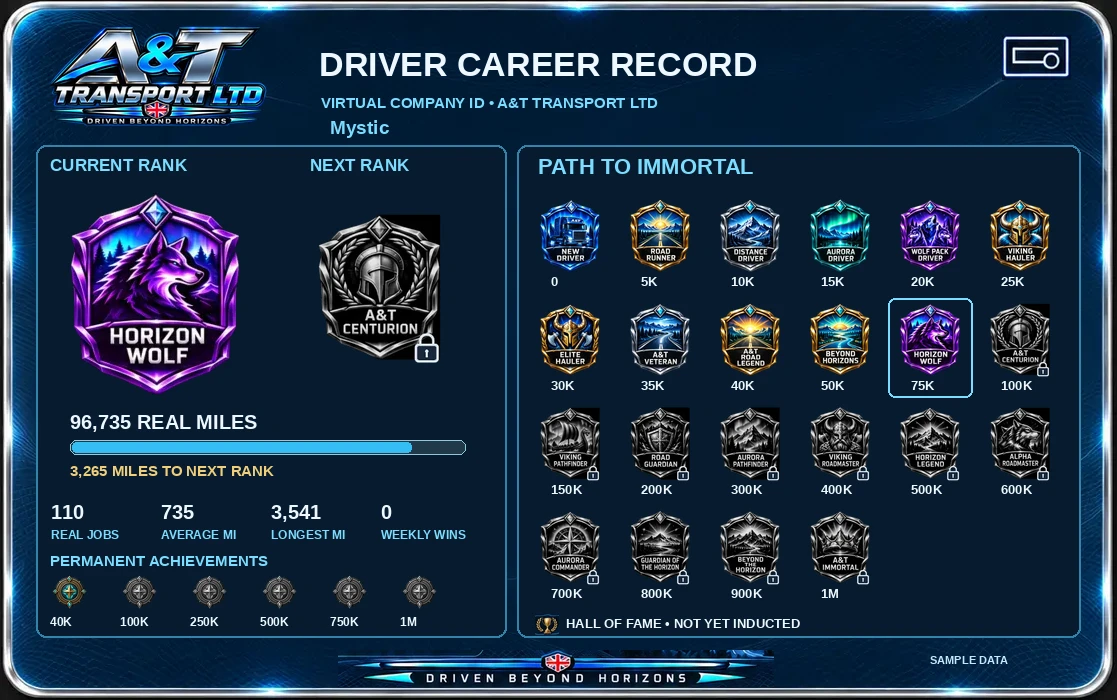
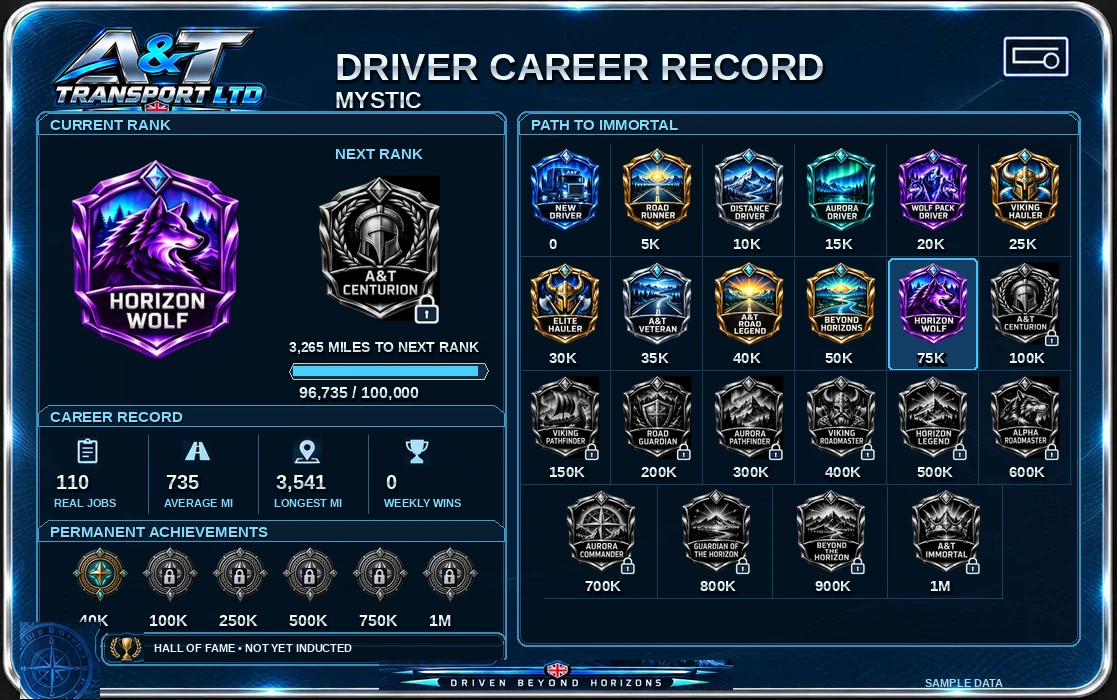
Restore detailed tachograph styling and card decorations

diff --git a/tachograph.py b/tachograph.py
@@ -7,7 +7,7 @@ from io import BytesIO
 from pathlib import Path
 from zipfile import ZipFile
 
-from PIL import Image, ImageDraw, ImageFont, ImageOps
+from PIL import Image, ImageDraw, ImageFont, ImageOps, ImageFilter
 
 ROOT = Path(__file__).resolve().parent
 ART = ROOT / "assets/tachograph"
@@ -92,10 +92,50 @@ def render(name, profile, prefs, side="front", role="DRIVER"):
             while value and draw.textlength(value+"…",font=font(size)) > width:
                 value = value[:-1]
             value += "…"
+        draw.text((x+1,y+2),value,font=font(size),fill="#000914")
         draw.text((x,y),value,font=font(size),fill=colour)
 
+    def metal(x,y,value,size=24,width=None):
+        value = " ".join(str(value).upper().split())
+        while width and size > 11 and draw.textlength(value,font=font(size)) > width:
+            size -= 1
+        if width and draw.textlength(value,font=font(size)) > width:
+            while value and draw.textlength(value+"…",font=font(size)) > width:
+                value=value[:-1]
+            value+="…"
+        mask=Image.new("L",canvas.size)
+        md=ImageDraw.Draw(mask)
+        md.text((x,y),value,font=font(size),fill=255)
+        draw.text((x+1,y+2),value,font=font(size),fill="#000813",stroke_width=2,stroke_fill="#000813")
+        bounds=mask.getbbox()
+        if bounds:
+            gradient=Image.new("RGBA",canvas.size)
+            gd=ImageDraw.Draw(gradient)
+            for line in range(bounds[1],bounds[3]):
+                t=(line-bounds[1])/max(1,bounds[3]-bounds[1]-1)
+                # Brushed silver with a narrow dark reflection and cyan rim.
+                shade=int(253-65*t) if t<0.48 else int(160+85*(t-0.48)/0.52)
+                gd.line((bounds[0],line,bounds[2],line),fill=(shade,min(255,shade+12),min(255,shade+22),255))
+            gradient.putalpha(mask)
+            canvas.alpha_composite(gradient)
+
     def panel(box):
-        draw.rounded_rectangle(box,10,fill="#061b2e",outline="#3483aa",width=2)
+        overlay=Image.new("RGBA",canvas.size)
+        od=ImageDraw.Draw(overlay)
+        od.rounded_rectangle(box,10,fill=(3,15,29,205),outline=(59,155,204,230),width=2)
+        x1,y1,x2,y2=box
+        od.rounded_rectangle((x1+3,y1+3,x2-3,y2-3),8,outline=(104,195,223,65),width=1)
+        canvas.alpha_composite(overlay)
+
+    def heading(x,y,width,label):
+        draw.polygon(((x,y+21),(x,y+8),(x+10,y),(x+width-10,y),(x+width,y+8),(x+width,y+21)),
+                     fill="#081e33",outline="#409fc7")
+        text(x+12,y+3,label,15,CYAN,width=width-24)
+
+    def plate(x,y,width,label):
+        draw.polygon(((x+6,y),(x+width-6,y),(x+width,y+6),(x+width-4,y+22),(x+4,y+22),(x,y+6)),
+                     fill="#07182b",outline="#339ac2")
+        metal(x+width//2-18,y+1,label,18,width=width-12)
 
     def image(layer,box):
         x,y,w,h=box
@@ -112,14 +152,30 @@ def render(name, profile, prefs, side="front", role="DRIVER"):
     def shield(miles,box):
         image(badge(miles,real < miles),box)
 
-    def progress(x,y,w):
+    def progress(x,y,w,compact=False):
         label = "MAXIMUM RANK ACHIEVED" if next_rank is None else f"{remaining:,} MILES TO NEXT RANK"
-        text(x,y,f"{real:,} REAL MILES",20,width=w)
-        draw.rounded_rectangle((x,y+30,x+w,y+44),6,fill="#21394a",outline="#91c9de")
-        fraction = 1 if next_rank is None else (real-current)/(next_rank-current)
-        if fraction > 0:
-            draw.rounded_rectangle((x+2,y+32,x+2+int((w-4)*min(fraction,1)),y+42),4,fill="#34bdf3")
-        text(x,y+52,label,15,GOLD,width=w)
+        if compact:
+            metal(x,y,label,14,width=w)
+            draw.polygon(((x+4,y+24),(x+w-4,y+24),(x+w,y+32),(x+w-4,y+40),(x+4,y+40),(x,y+32)),
+                         fill="#102c43",outline="#dfc99b")
+            fraction=1 if next_rank is None else min(real/next_rank,1)
+            draw.rectangle((x+4,y+27,x+4+int((w-8)*fraction),y+36),fill="#48d0ff")
+            target=f"{real:,} / {next_rank:,}" if next_rank is not None else f"{real:,} REAL MILES"
+            metal(x+10,y+44,target,16,width=w-10)
+            return
+        panel((x-10,y-9,x+w+10,y+91))
+        target=f"{real:,} / {next_rank:,}" if next_rank is not None else f"{real:,} REAL MILES"
+        metal(x,y,target,23,width=w)
+        shape=((x+5,y+31),(x+w-5,y+31),(x+w,y+41),(x+w-5,y+52),(x+5,y+52),(x,y+41))
+        draw.polygon(shape,fill="#152c3d",outline="#e2c891")
+        # Match the approved absolute progress display.
+        fraction=1 if next_rank is None else min(real/next_rank,1)
+        end=x+5+int((w-10)*fraction)
+        if end>x+5:
+            for line in range(34,50):
+                fade=(line-34)/15
+                draw.line((x+5,y+line,end,y+line),fill=(int(43+74*(1-fade)),int(147+91*(1-fade)),248))
+        metal(x,y+62,label,16,width=w)
 
     real = max(0,int(profile.get("real_miles") or 0))
     idx = max(i for i,m in enumerate(MILES) if real >= m)
@@ -127,10 +183,14 @@ def render(name, profile, prefs, side="front", role="DRIVER"):
     next_rank = MILES[idx+1] if idx+1<len(MILES) else None
     remaining = max(0,(next_rank or real)-real)
     asset(ART/"company-logo.webp",(30,20,254,110))
-    text(319,45,"DRIVER TACHOGRAPH CARD" if side=="front" else "DRIVER CAREER RECORD",34,width=730)
-    text(321,94,"VIRTUAL COMPANY ID  •  A&T TRANSPORT LTD",15,CYAN,width=700)
+    metal(382 if side=="front" else 335,45,
+          "DRIVER TACHOGRAPH CARD" if side=="front" else "DRIVER CAREER RECORD",
+          38,width=608 if side=="front" else 650)
+    if side=="front":
+        text(435,94,"V I R T U A L   C O M P A N Y   I D",15,WHITE,width=540)
     detail("tachograph-symbol",(1002,35,70,45))
     if side=="front":
+        detail("uk-map-watermark",(922,84,157,177))
         detail("smart-chip",(59,160,119,75))
         code=prefs.get("country_code")
         country=countries().get(code)
@@ -144,19 +204,24 @@ def render(name, profile, prefs, side="front", role="DRIVER"):
             portrait=ImageOps.fit(source.convert("RGBA"),(278,310),Image.Resampling.LANCZOS)
         canvas.alpha_composite(portrait,(40,239))
         text(345,183,"DRIVER NAME",15,CYAN)
-        text(345,209,name,36,width=260)
+        metal(345,204,name,36,width=239)
+        draw.line((345,249,584,249),fill=CYAN,width=1)
         text(345,267,"ROLE",15,CYAN)
-        text(345,290,role,21,width=260)
+        metal(345,287,role,24,width=239)
+        draw.line((345,317,574,317),fill=CYAN,width=1)
         text(345,329,"COUNTRY",15,CYAN)
-        text(345,351,country["name"].upper() if country else "NOT SET",20,width=260)
+        metal(345,347,country["name"] if country else "NOT SET",23,width=254)
         panel((612,170,922,378))
-        text(629,179,"LINKED ACCOUNTS",16,CYAN)
+        metal(629,176,"LINKED ACCOUNTS",16,width=260)
+        draw.line((616,197,919,197),fill="#296181")
         accounts={item["provider"]:item for item in profile.get("linked_accounts",[])}
         accounts["Discord"]={"name":name,"status":"Linked"}
         if profile.get("steam_id64"):
             accounts["Steam"]={"name":profile["steam_id64"],"status":"Verified"}
         for i,(service,icon) in enumerate((("Steam","steam"),("Discord","discord"),("TrucksBook","trucksbook"),("Trucky","trucky"),("Drivers Hub","drivers-hub"))):
             y=205+i*33
+            if i:
+                draw.line((619,y-5,914,y-5),fill="#24475d")
             detail(icon+"-icon",(630,y,27,27))
             item=accounts.get(service,{})
             text(670,y+3,service,14,width=100)
@@ -164,64 +229,81 @@ def render(name, profile, prefs, side="front", role="DRIVER"):
             if item.get("status","").lower() in {"verified","linked"}:
                 detail("verified-account-tick",(891,y+2,20,20))
         detail("wolf-seal",(935,275,150,219))
-        panel((347,386,925,449))
+        draw.line((345,385,924,385),fill="#4696b4",width=1)
+        draw.line((345,449,924,449),fill="#4696b4",width=1)
         race=profile.get("trucky_race_miles")
         values=(("REAL MILES",f"{real:,}"),("TRUCKY RACE",f"{Decimal(str(race)):,.0f}" if race is not None else "Unavailable"),("REAL JOBS",str(profile.get("jobs_completed",0))))
         for i,(label,value) in enumerate(values):
-            x=360+i*187
-            text(x,394,label,13,CYAN)
-            text(x,414,value,24,width=170)
+            x=360+i*192
+            detail(("road-icon","trophy-icon","jobs-icon")[i],(x,398,39,38))
+            text(x+58,395,label,13,CYAN,width=130)
+            metal(x+58,414,value,25,width=126)
+            draw.line((x-15,396,x-15,438),fill="#4789a7",width=1)
         featured=[MILES[idx-1] if idx > 0 else None,current,next_rank]
         for i,miles in enumerate(featured):
             x=335+i*120
             if miles is not None:
                 shield(miles,(x,455,111,166))
-                text(x+32,625,threshold_key(miles).upper(),16)
-        detail("verified-driver-shield",(710,463,68,80))
-        text(790,481,"LINKED A&T DRIVER",15,width=185)
+                plate(x+4,624,104,threshold_key(miles).upper())
+        panel((714,463,907,539))
+        detail("verified-driver-shield",(710,463,78,83))
+        text(795,483,"LINKED",16,width=103)
+        text(795,504,"A&T DRIVER",16,width=103)
         if 40000 in profile.get("permanent_achievements",()):
-            detail("mileage-club-medallion",(711,547,80,76))
-            text(795,551,"40K MILEAGE CLUB",13,width=254)
-        progress(836,576,250)
+            detail("mileage-club-medallion",(705,547,94,76))
+            metal(735,623,"40K",17,width=60)
+            text(714,641,"MILEAGE CLUB",10,width=96)
+        progress(841,557,232)
         # Compact numeric progress fills the remaining lower-right safe area.
     else:
-        text(330,116,name,19,CYAN,width=720)
-        panel((36,145,506,637))
-        panel((517,145,1080,637))
-        text(50,155,"CURRENT RANK",17,CYAN)
-        text(310,155,"NEXT RANK",17,CYAN)
-        shield(current,(67,185,176,218))
+        metal(335,87,name,23,width=650)
+        panel((36,111,506,646))
+        panel((517,111,1080,646))
+        heading(38,113,466,"CURRENT RANK")
+        text(335,145,"NEXT RANK",15,CYAN)
+        shield(current,(67,150,176,218))
         if next_rank is not None:
-            shield(next_rank,(316,196,127,184))
-        progress(70,410,395)
+            shield(next_rank,(316,157,127,184))
+        progress(289,339,199,compact=True)
+        heading(38,405,466,"CAREER RECORD")
         for i,(label,key) in enumerate((("REAL JOBS","jobs_completed"),("AVERAGE MI","average_job_distance"),("LONGEST MI","longest_job_distance"),("WEEKLY WINS","weekly_wins"))):
             x=51+i*110
-            text(x,500,f"{int(profile.get(key) or 0):,}",20,width=100)
-            text(x,528,label,12,CYAN)
-        text(50,552,"PERMANENT ACHIEVEMENTS",15,CYAN)
+            detail(("jobs-icon","road-icon","career-pin","trophy-icon")[i],(x+22,437,29,29))
+            metal(x+5,470,f"{int(profile.get(key) or 0):,}",20,width=100)
+            text(x+3,497,label,11,CYAN,width=103)
+            if i:
+                draw.line((x-13,435,x-13,513),fill="#2c667e",width=1)
+        heading(38,520,466,"PERMANENT ACHIEVEMENTS")
         for i,miles in enumerate((40000,100000,250000,500000,750000,1000000)):
-            x=50+i*70
+            x=70+i*70
             with Image.open(ART/"insignias/achievement.webp") as source:
                 medal=source.convert("RGBA")
             if miles not in profile.get("permanent_achievements",()):
                 alpha=medal.getchannel("A")
                 medal=ImageOps.grayscale(medal).convert("RGBA")
                 medal.putalpha(alpha)
-            image(medal,(x,575,37,37))
-            text(x,615,threshold_key(miles).upper(),12,width=60)
-        text(538,154,"PATH TO IMMORTAL",22,CYAN)
+            image(medal,(x-2,546,61,61))
+            if miles not in profile.get("permanent_achievements",()):
+                detail("small-lock",(x+22,568,16,19))
+            metal(x+9,611,threshold_key(miles).upper(),16,width=62)
+        heading(519,113,559,"PATH TO IMMORTAL")
         for i,miles in enumerate(MILES):
             row,col=divmod(i,6)
-            x=528+col*90
-            y=194+row*104
+            x=(520+col*92) if row<3 else (544+col*115)
+            y=144+row*114
+            width=91 if row<3 else 114
             if miles==current:
-                draw.rounded_rectangle((x,y,x+84,y+99),7,outline=CYAN,width=2)
-            shield(miles,(x+5,y+3,74,77))
-            text(x+23,y+80,threshold_key(miles).upper(),13,width=63)
+                draw.rounded_rectangle((x,y,x+width-2,y+112),5,fill="#123e65",outline="#46c2fc",width=2)
+            draw.line((x+width-1,y,x+width-1,y+112),fill="#17405b",width=1)
+            draw.line((x,y+112,x+width,y+112),fill="#17405b",width=1)
+            shield(miles,(x+3,y+1,width-6,89))
+            metal(x+width//2-16,y+91,threshold_key(miles).upper(),15,width=60)
         tier=profile.get("hall_of_fame_tier")
-        detail("hall-of-fame-trophy",(535,613,24,24))
-        text(566,616,"HALL OF FAME • "+(str(tier).upper() if tier else "NOT YET INDUCTED"),13,width=490)
-    detail("footer-front" if side=="front" else "footer-back",(273,650,566,37))
+        detail("reverse-compass-seal",(20,622,80,77))
+        panel((101,632,506,665))
+        detail("hall-of-fame-trophy",(108,632,36,31))
+        text(154,642,"HALL OF FAME • "+(str(tier).upper() if tier else "NOT YET INDUCTED"),11,width=338)
+    detail("footer-front" if side=="front" else "footer-back",(273,660,566,30))
     output=BytesIO()
     canvas.convert("RGB").save(output,"PNG",optimize=True)
     output.seek(0)
